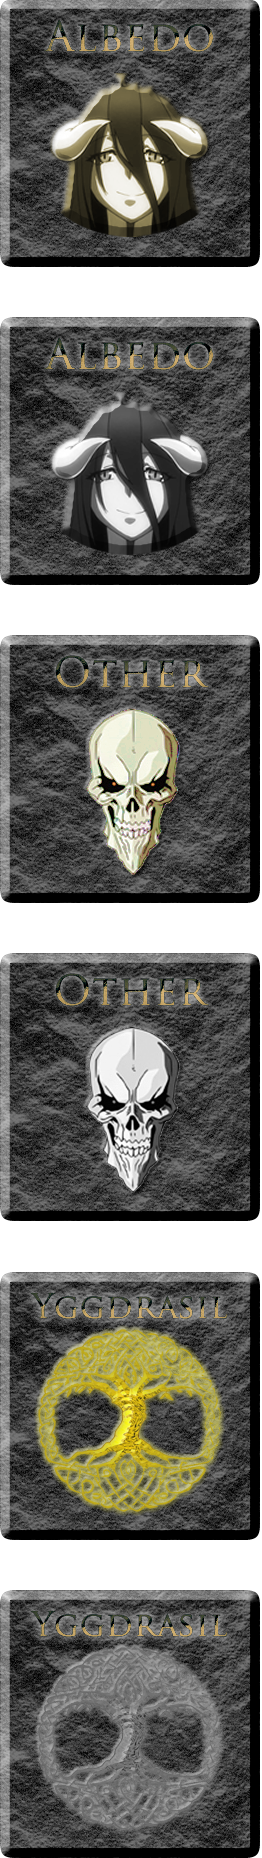
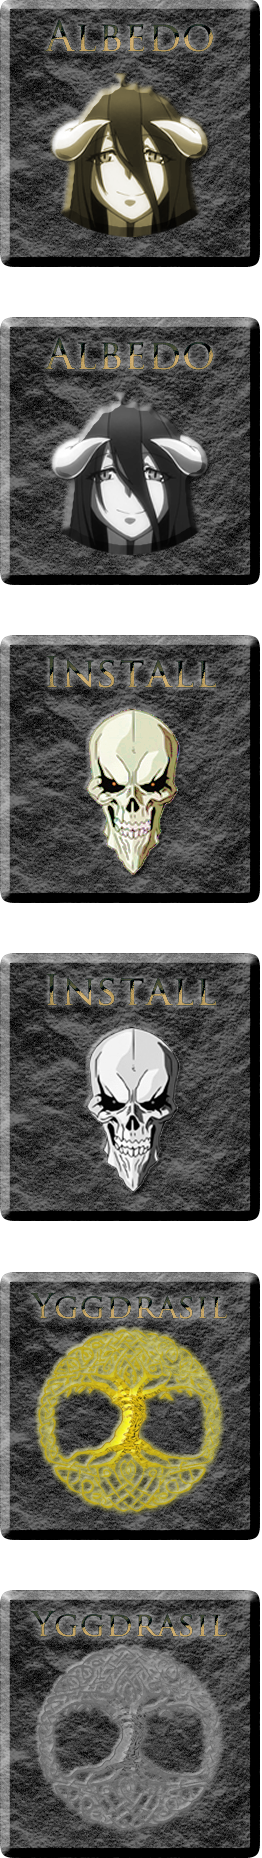
updates

Changed region(s): [[0.1832, 0.4995, 0.8244, 0.5619], [0.1832, 0.3434, 0.8244, 0.3746]]

diff --git a/index.html b/index.html
@@ -97,7 +97,7 @@ a:visited {
 				</li>
 				<li class="last">
 					<a href="archives.html" class="archives">&nbsp;</a>
-					<p>Other</p>
+					<p>Installation Guide</p>
 				</li>
 			</ul>
 			<span>&copy; Copyright &copy; 2016. <a href="index.html">Blue Orb Studios</a> all rights reserved</span> </div>
